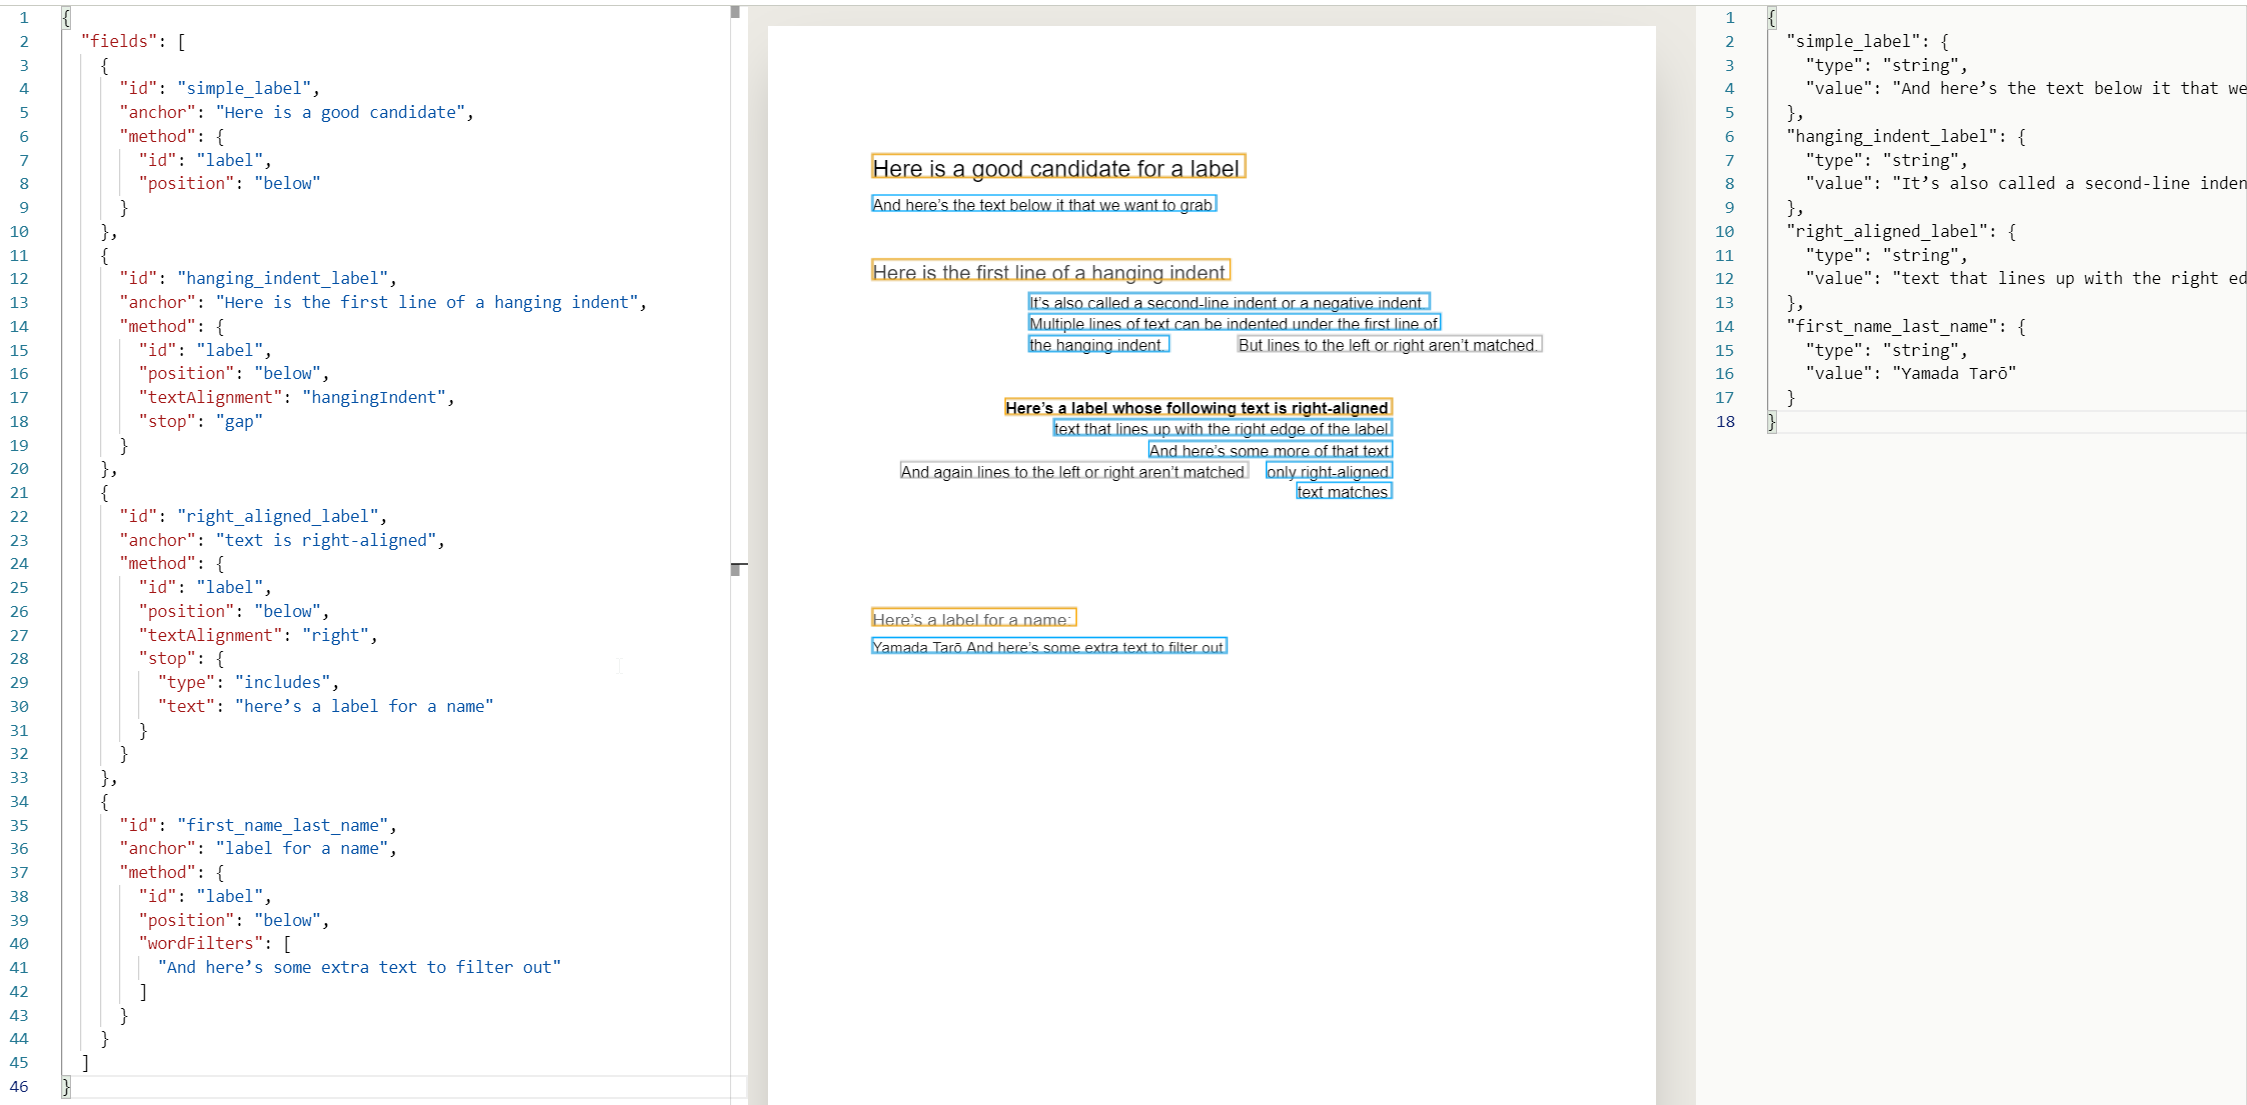
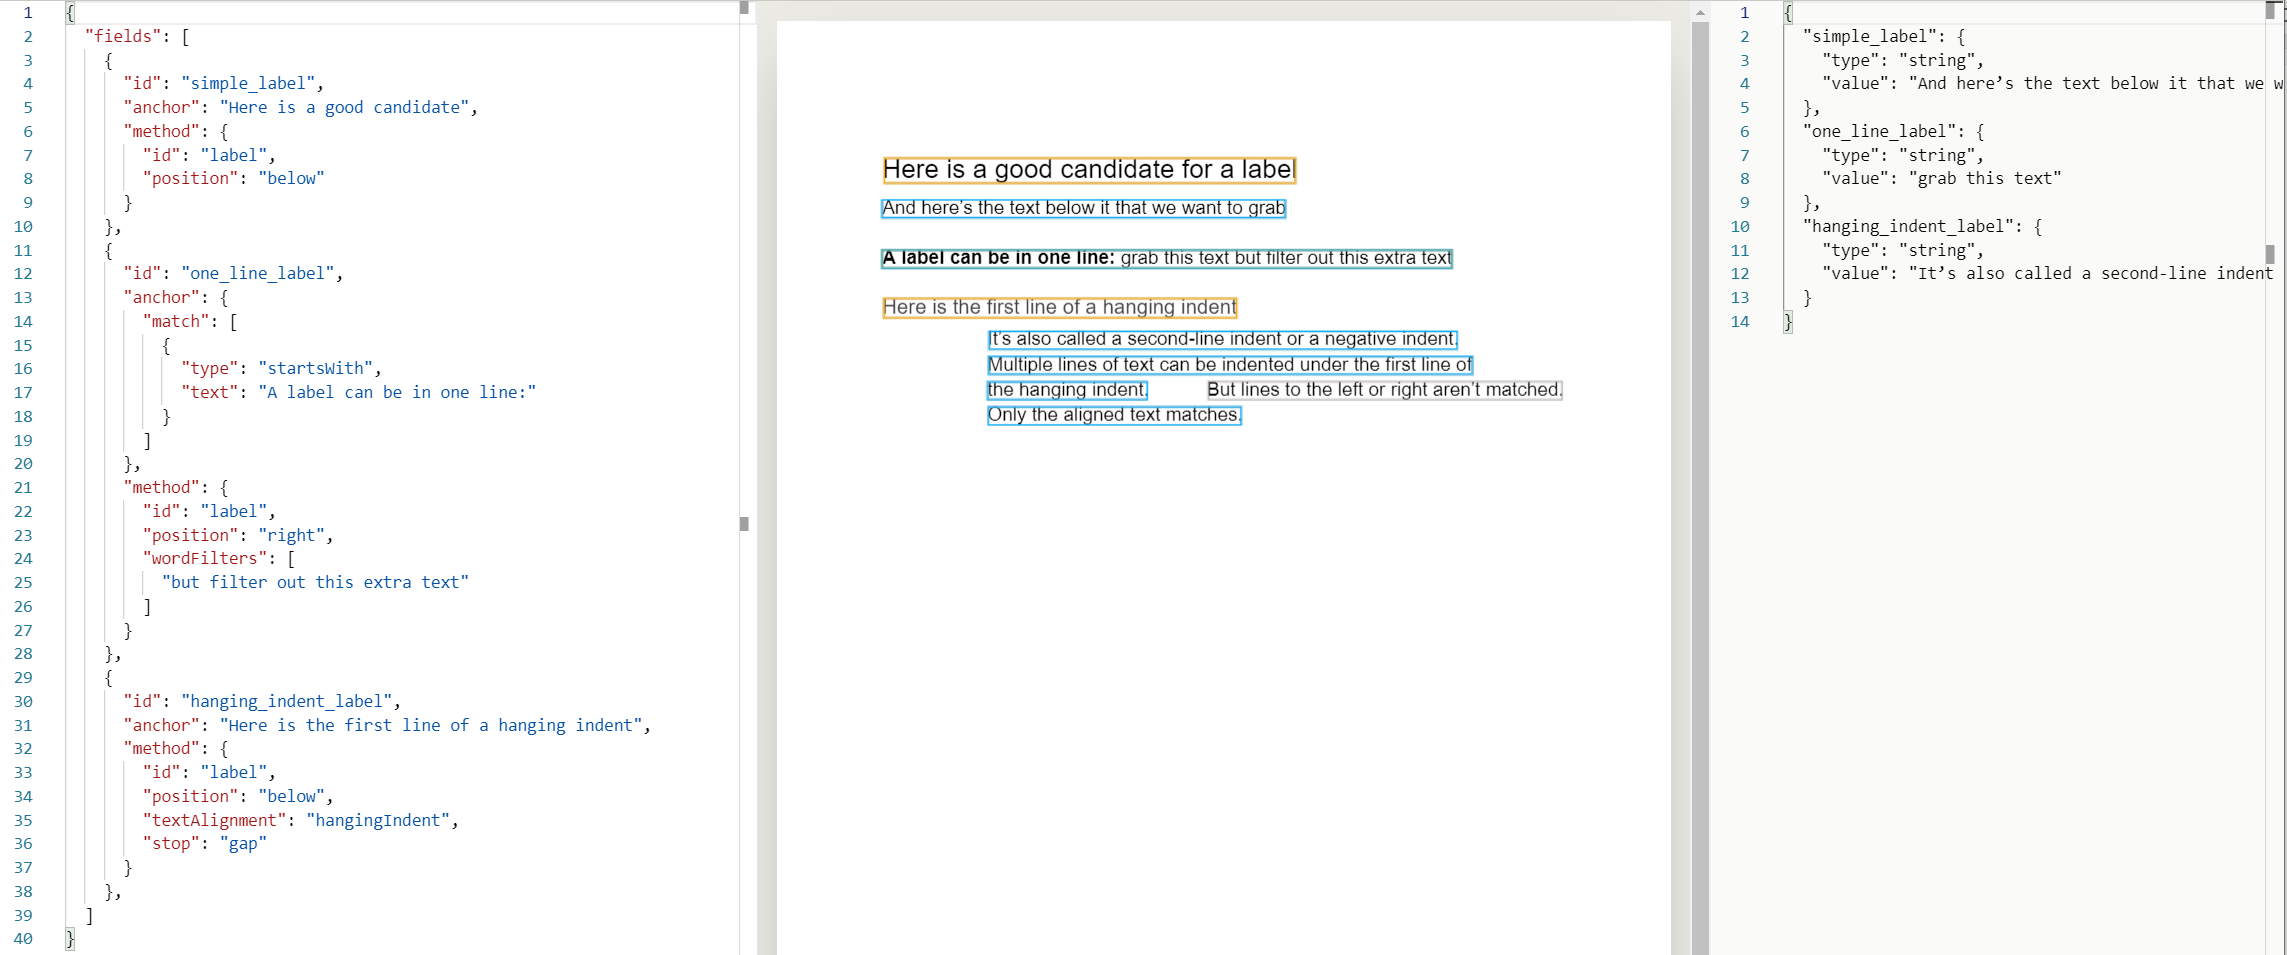
simplified label examples

diff --git a/readme-sync/v0/senseml-reference/methods/label.md b/readme-sync/v0/senseml-reference/methods/label.md
@@ -18,9 +18,8 @@ The following image shows examples of various labels in the Sensible app:
 The preceding example shows fields that do the following:
 
 1. The  `simple_label` field grabs a line below a label.
-2. The `hanging_indent_label` field grabs multiple lines of text that are indented below a label. Notice that the match does **not** include lines to the left or right of matching lines. For example, in the PDF, the text "But lines to the left or right aren't matched" gets parsed as a separate line because of the horizontal gap between it and its adjacent line. Therefore is not included in the match.
-3.  The `right_aligned_label` field grabs multiple lines of text that are aligned to the right edge below a label.  Again, a line that is separated from the other lines by a horizontal gap is not included in the match.
-4. The `first_name_last_name` field grabs a person's name below the label, and uses a filter to remove an unwanted string.
+2. The `one_line_label` field grabs text to the right of a label on the same line, and filters out an unwanted string. 
+3. The `hanging_indent_label` field grabs multiple lines of text by using a `stop` parameter.  The method grabs indented lines (`"textAlignment": "hangingIndent"`) , and the match does **not** include lines to the left or right of matching aligned lines. For example, in the PDF, the text "But lines to the left or right aren't matched" gets parsed as a separate line because of the horizontal gap between it and its adjacent line. 
 
 ```json
 {
@@ -34,6 +33,24 @@ The preceding example shows fields that do the following:
       }
     },
     {
+      "id": "one_line_label",
+      "anchor": {
+        "match": [
+          {
+            "type": "startsWith",
+            "text": "A label can be in one line:"
+          }
+        ]
+      },
+      "method": {
+        "id": "label",
+        "position": "right",
+        "wordFilters": [
+          "but filter out this extra text"
+        ]
+      }
+    },
+    {
       "id": "hanging_indent_label",
       "anchor": "Here is the first line of a hanging indent",
       "method": {
@@ -43,30 +60,6 @@ The preceding example shows fields that do the following:
         "stop": "gap"
       }
     },
-    {
-      "id": "right_aligned_label",
-      "anchor": "text is right-aligned",
-      "method": {
-        "id": "label",
-        "position": "below",
-        "textAlignment": "right",
-        "stop": {
-          "type": "includes",
-          "text": "here’s a label for a name"
-        }
-      }
-    },
-    {
-      "id": "first_name_last_name",
-      "anchor": "label for a name",
-      "method": {
-        "id": "label",
-        "position": "below",
-        "wordFilters": [
-          "And here’s some extra text to filter out"
-        ]
-      }
-    }
   ]
 }
 ```
